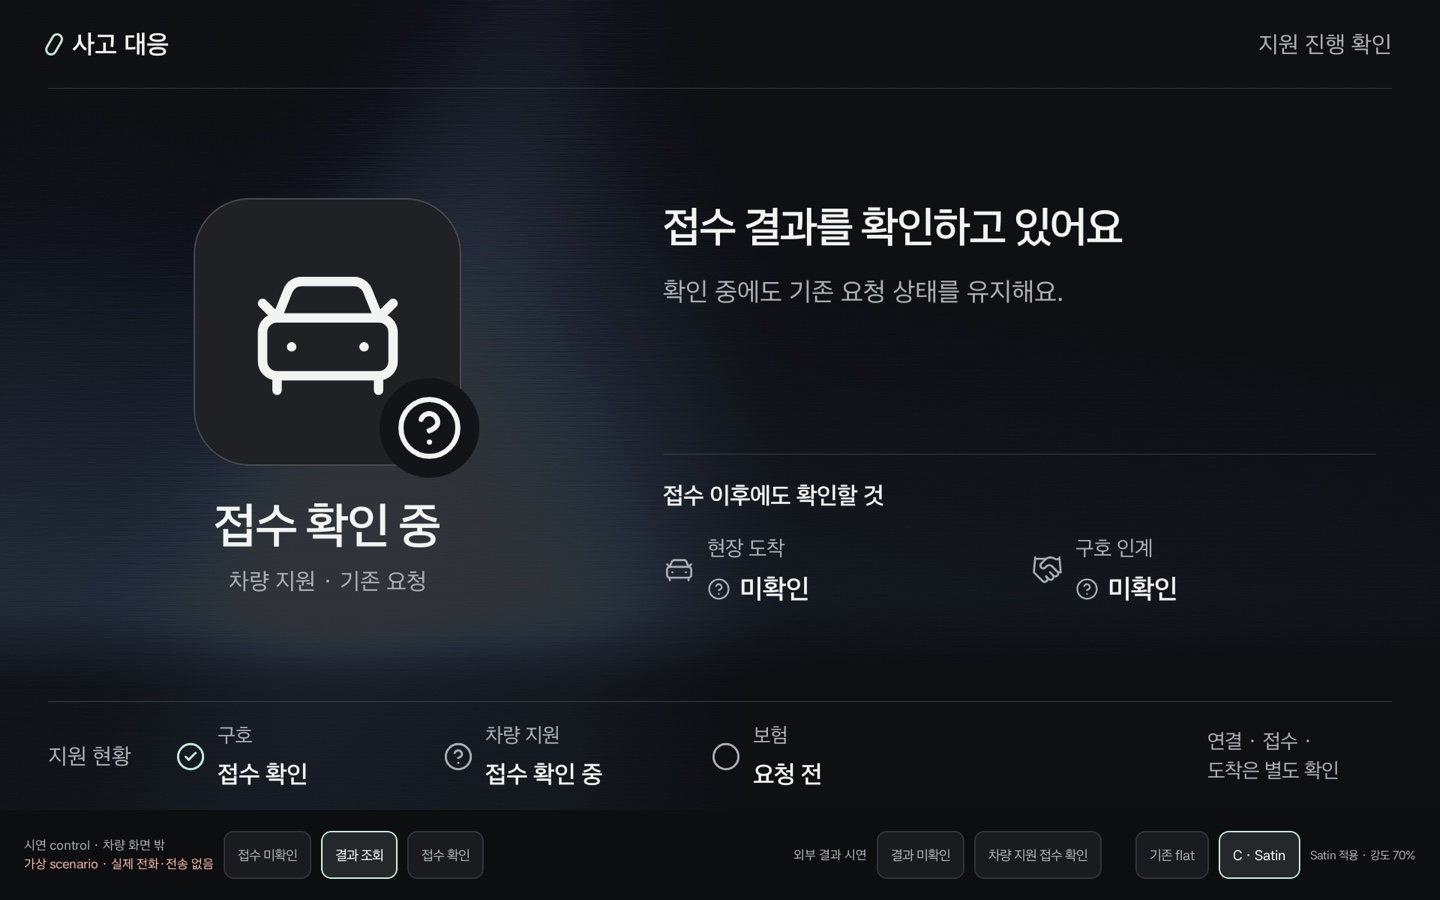
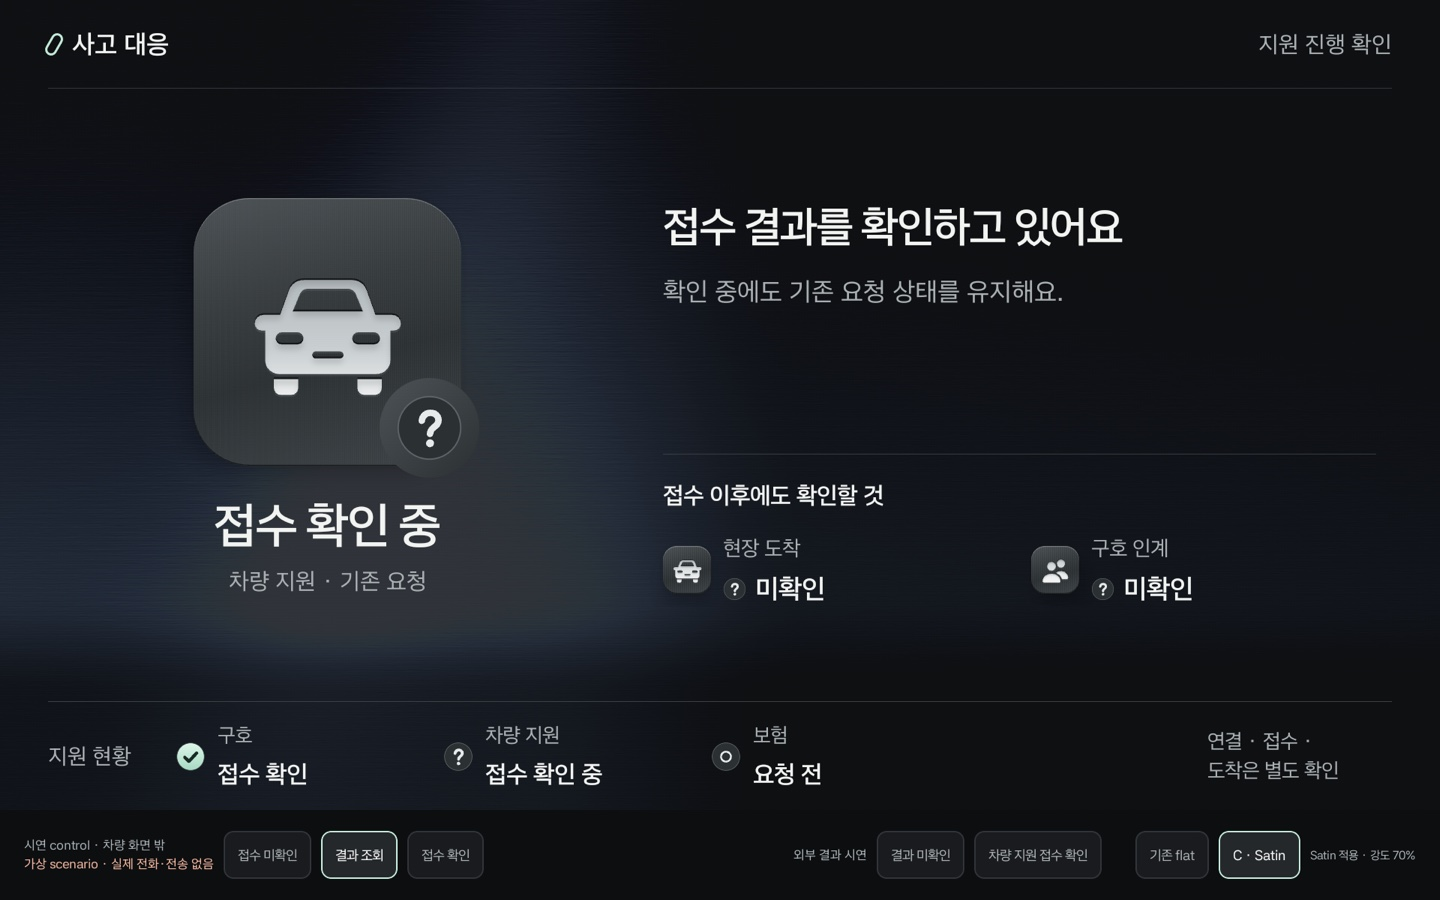
docs: record engraved pictogram evidence and contrast
Add web captures of all nine scenes plus a grayscale SC01, recapture
the Compose SC05 screens at font scale 1.0, 1.3 and 2.0, and record
the contrast results in the review log and visual language spec.

diff --git a/prototype/android/README.md b/prototype/android/README.md
@@ -39,7 +39,7 @@ adb -s emulator-5554 shell am start -S -n com.example.accidentpoc/.MainActivity 
 - C · Satin은 web의 GLSL shader를 AGSL `RuntimeShader`로 옮겼다. 강도는 web 기본값인 70%로 고정했다. Android 13 미만이거나 shader compile에 실패하면 기본 background로 표시하고 control에 그 사실을 표시한다.
 - 크기 수치는 web 검토 canvas(1440 × 810 CSS px)와 같은 dp 값이다. Emulator 폭을 1440 dp로 정했기 때문에 같은 값이 되었으며, Pleos 화면 크기나 dp 기준을 주장하지 않는다.
 - 한국어 문구는 어절 단위로 줄을 바꾼다(Android 13 이상의 phrase line break).
-- Icon은 web과 같은 [Lucide](https://lucide.dev) 1.69.0의 path이며 license는 `third-party/lucide/LICENSE`에 있다. Font는 Pleos 공개 typography에서 안내하는 Asta Sans이며 출처와 license는 [42dot/Asta-Sans](https://github.com/42dot/Asta-Sans)와 `third-party/asta-sans/OFL.txt`를 참조한다.
+- Pictogram은 web과 같은 [`glyphs.json`](../../specs/emergency-experience/glyphs.json)의 각인 glyph를 assets로 읽어 그린다. 금속 plate 위에 안쪽 그림자·lip·위쪽 edge로 새긴 효과를 Canvas로 만들며, 상태 표식도 같은 file의 정의를 쓴다. Font는 Pleos 공개 typography에서 안내하는 Asta Sans이며 출처와 license는 [42dot/Asta-Sans](https://github.com/42dot/Asta-Sans)와 `third-party/asta-sans/OFL.txt`를 참조한다.
 
 ## 확인
 
@@ -47,7 +47,7 @@ adb -s emulator-5554 shell am start -S -n com.example.accidentpoc/.MainActivity 
 ANDROID_SERIAL=emulator-5554 ./gradlew connectedDebugAndroidTest
 ```
 
-`ANDROID_SERIAL`이 없으면 연결된 모든 기기에서 실행된다. 15개 검사는 다음을 확인한다.
+`ANDROID_SERIAL`이 없으면 연결된 모든 기기에서 실행된다. 21개 검사는 다음을 확인한다.
 
 - 구호·차량 지원·보험의 상태가 서로 독립적으로 표시된다. 상태 문구는 정확히 비교한다(`접수 확인`과 `접수 확인 중`을 구별).
 - 결과 조회는 재전송이 아니며 다른 기관의 상태를 바꾸지 않는다.
@@ -61,8 +61,10 @@ ANDROID_SERIAL=emulator-5554 ./gradlew connectedDebugAndroidTest
 - 시작 장면 지정과 잘못된 값의 fallback.
 - Satin shader가 compile되고, compile 실패는 사용 불가로 판정된다.
 - 아직 지원하지 않는 `fact_overrides`가 있는 scenario는 읽지 않고 멈춘다.
+- Mapping된 glyph가 모두 비어 있지 않은 path로 만들어지고, 심장 박동·구호 인계 glyph의 잘라낸 틈이 남는다. 세 장면이 mapping된 glyph와 상태 표식을 그린다.
+- 차량 cue glyph의 면과 주변 plate의 대비가 3:1 이상이다. 측정 정의는 web과 같다(면은 흰색, plate는 검은색으로 다시 그린 image로 pixel을 나누고 그림자 띠를 포함).
 
-`evidence/sc05/`에는 font scale 1.0·1.3·2.0에서 세 장면의 emulator 화면을 기록했다. Font scale 1.3·2.0과 animation 꺼짐 상태에서도 15개 검사가 통과했다.
+`evidence/sc05/`에는 font scale 1.0·1.3·2.0에서 세 장면의 emulator 화면을 기록했다. Font scale 2.0에서도 21개 검사가 통과했다(2026-11-08). 각인 pictogram 이전의 15개 검사는 font scale 1.3·2.0과 animation 꺼짐 상태에서 통과했다.
 
 Local browser에서 emulator를 조작하려면 위 emulator와 app을 실행한 뒤 아래 명령을 실행하고 <http://127.0.0.1:8766/>을 연다. 화면 갱신 주기가 900 ms이므로 motion 확인에는 사용하지 않는다.
 
